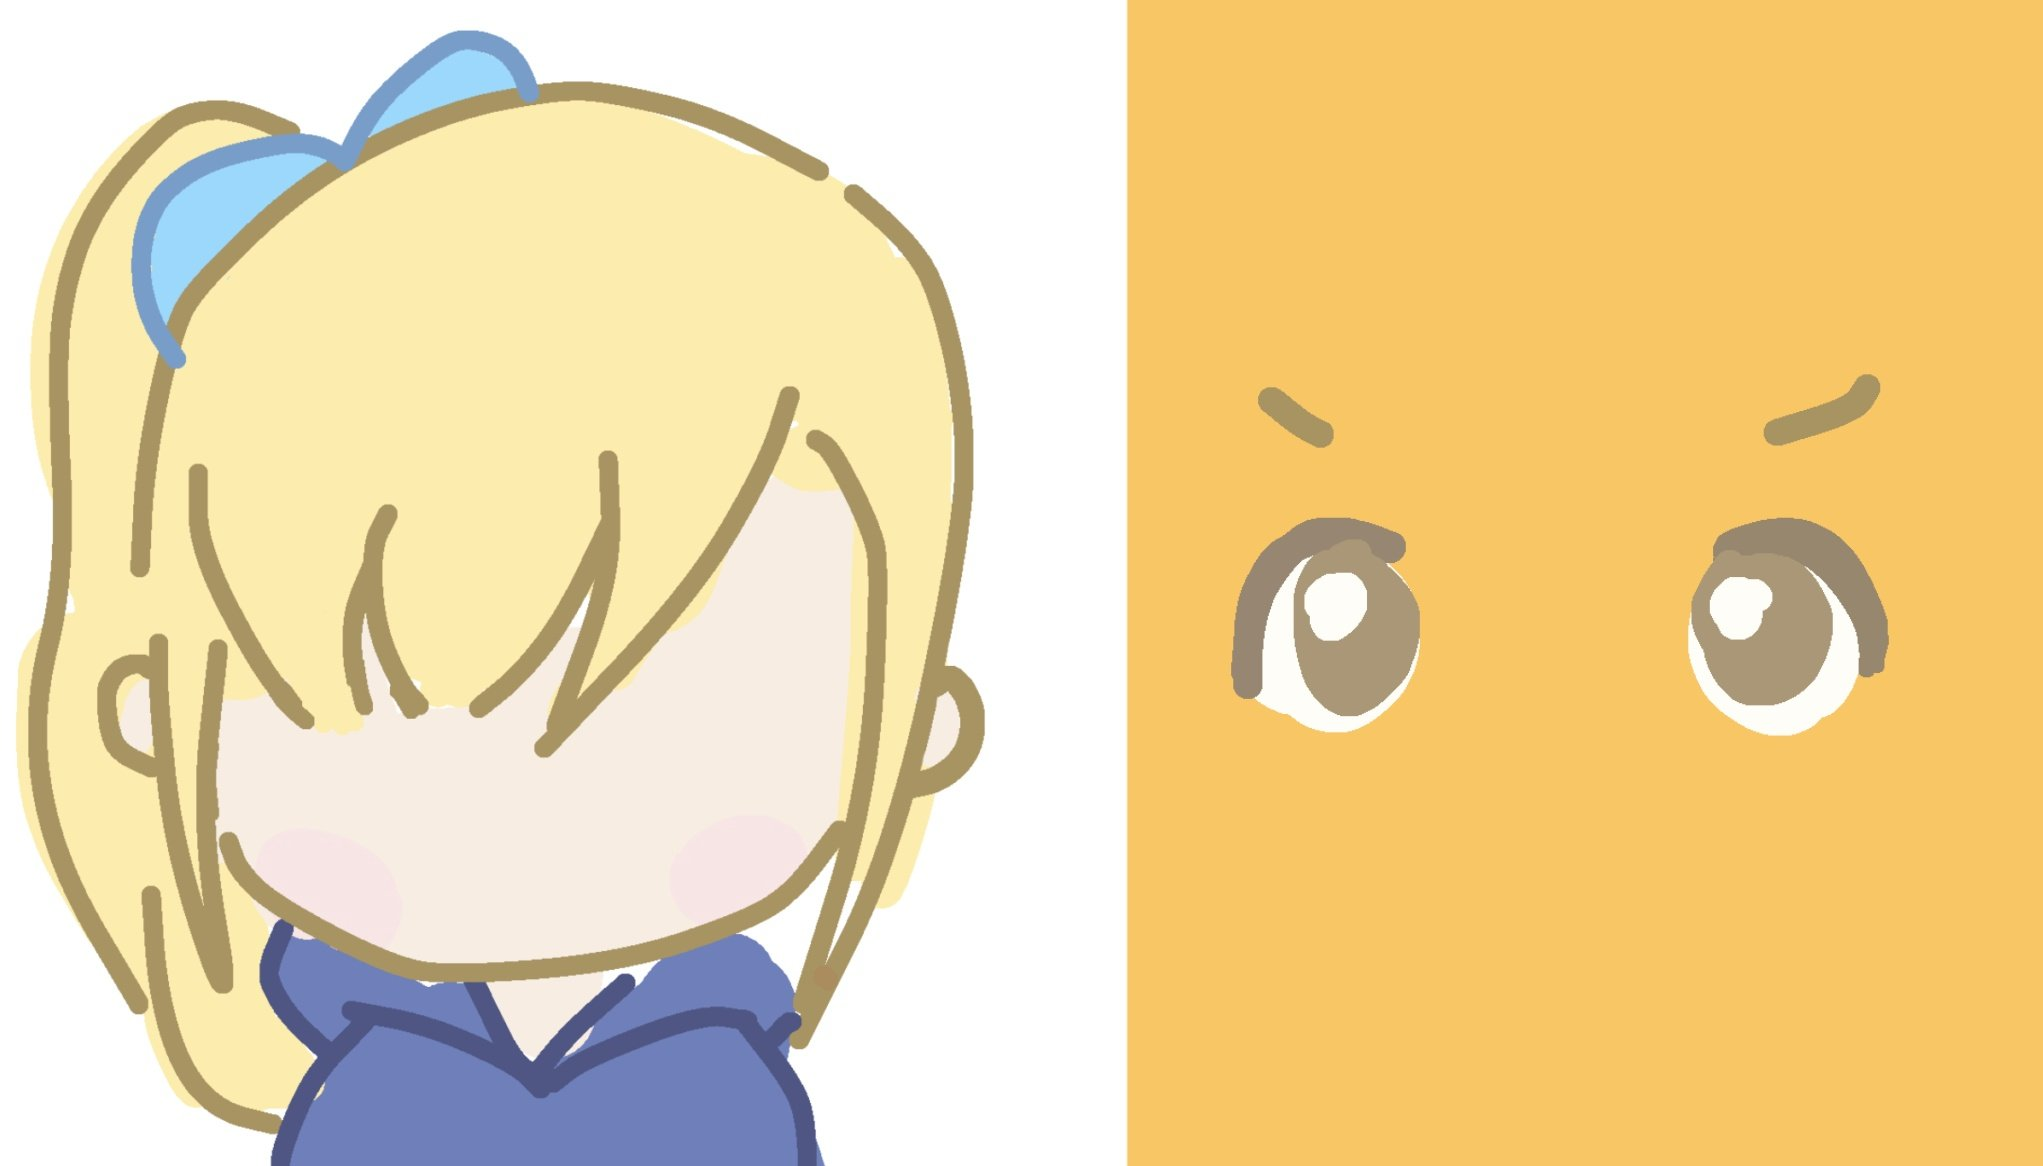
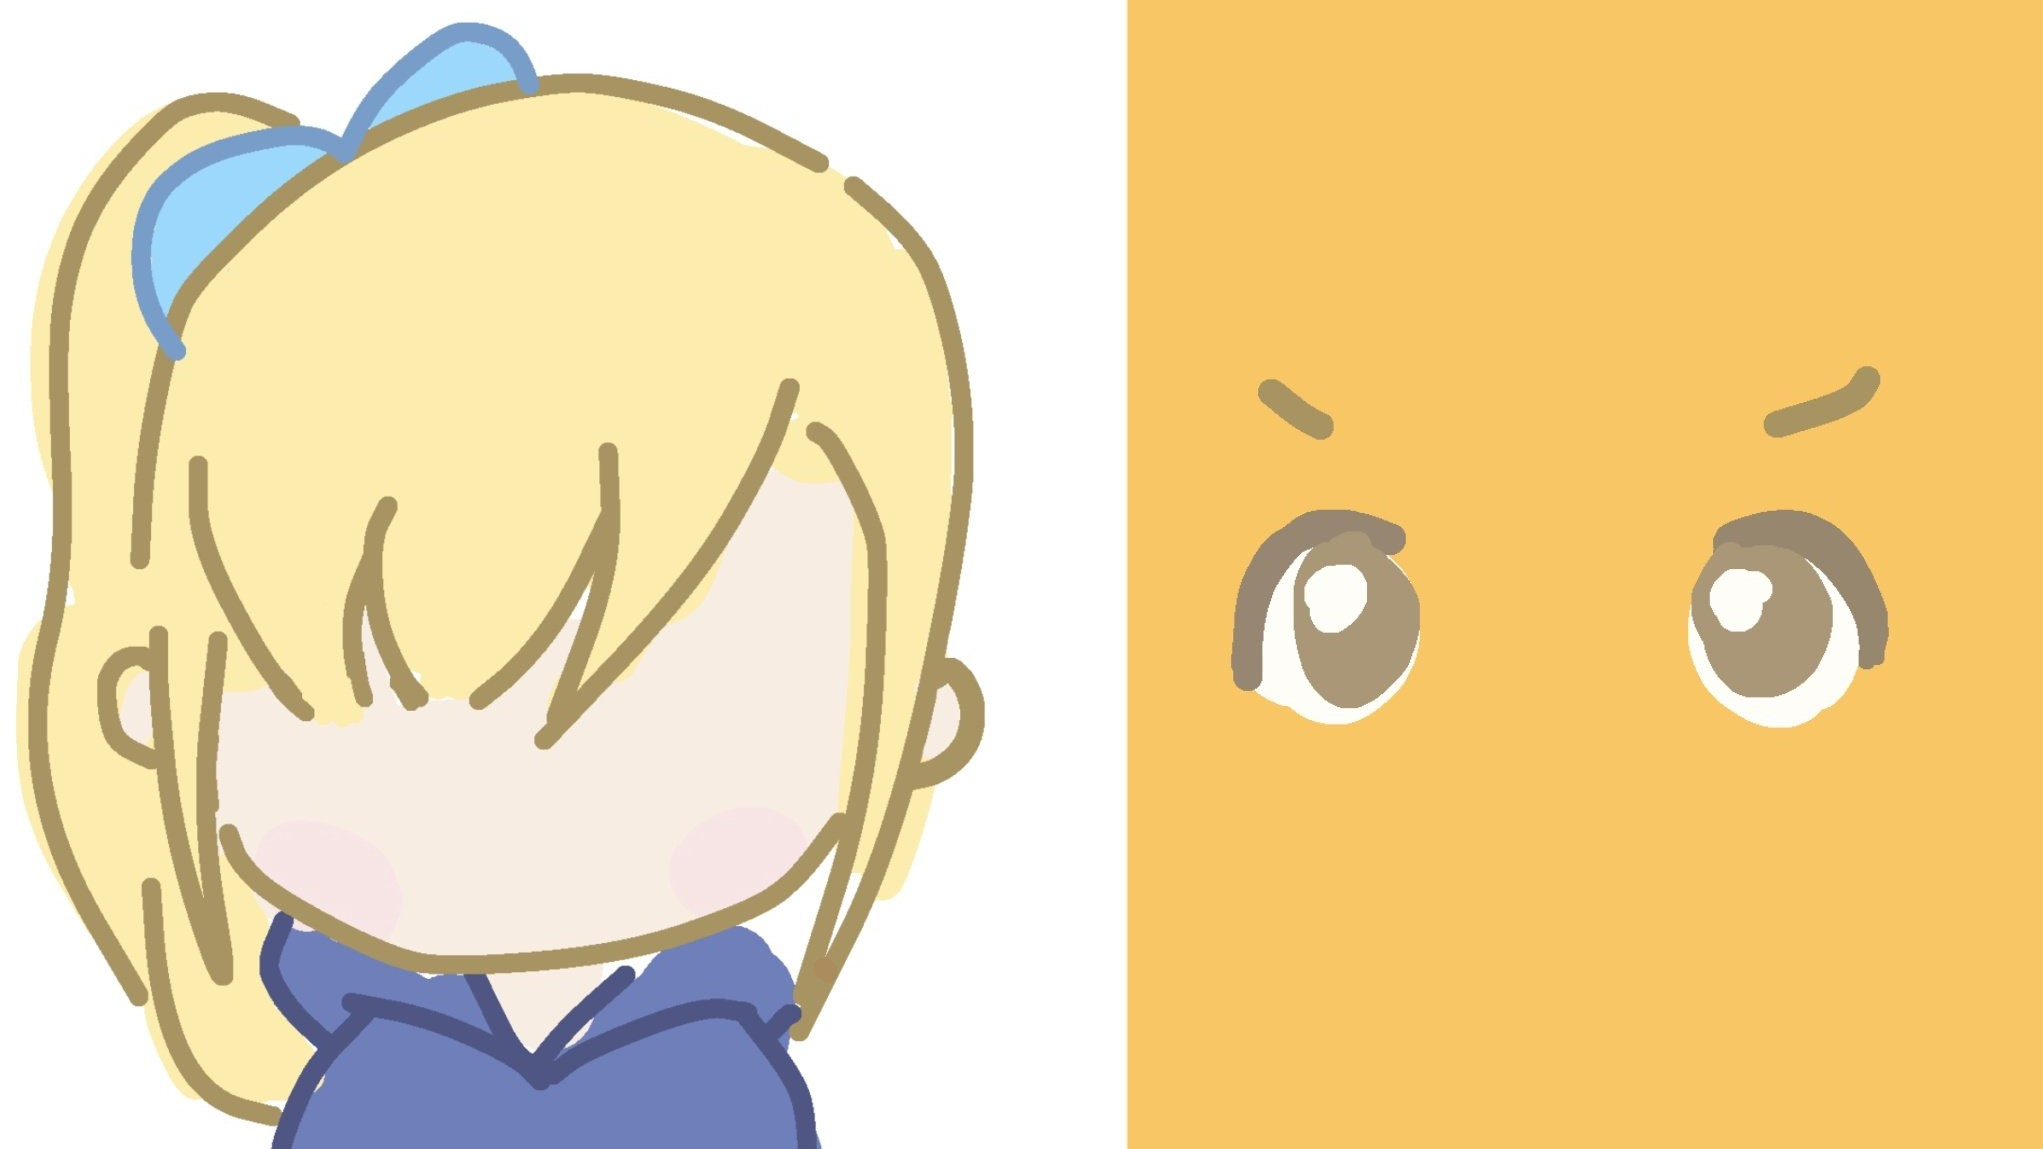
.

diff --git a/src/assets/css/silentbox.css b/src/assets/css/silentbox.css
@@ -1,1 +1,1 @@
-#silentbox-gallery{display:flex !important;flex-wrap:wrap-reverse;flex-direction:row-reverse;gap:min(1rem,4vmin)}#silentbox-gallery>a{flex-basis:min(200px,32vw);flex-grow:1;border-radius:min(1rem,4vmin);overflow:hidden;background-color:#fff;max-height:40vh;text-align:center;aspect-ratio:1/1;transition:box-shadow .2s}#silentbox-gallery>a:hover{box-shadow:4px 4px 12px #1116,-4px -4px 8px #fff5}#silentbox-gallery>a:nth-child(1){order:-1}#silentbox-gallery>a:nth-child(2){order:-2}#silentbox-gallery>a:nth-child(3){order:-3}#silentbox-gallery>a:nth-child(4){order:-4}#silentbox-gallery>a:nth-child(5){order:-5}#silentbox-gallery>a:nth-child(6){order:-6}#silentbox-gallery>a:nth-child(7){order:-7}#silentbox-gallery>a:nth-child(8){order:-8}#silentbox-gallery>a:nth-child(9){order:-9}#silentbox-gallery>a:nth-child(10){order:-10}#silentbox-gallery>a:nth-child(11){order:-11}#silentbox-gallery>a:nth-child(12){order:-12}#silentbox-gallery>a:nth-child(13){order:-13}#silentbox-gallery>a:nth-child(14){order:-14}#silentbox-gallery>a:nth-child(15){order:-15}#silentbox-gallery>a:nth-child(16){order:-16}#silentbox-gallery>a:nth-child(17){order:-17}#silentbox-gallery>a:nth-child(18){order:-18}#silentbox-gallery>a:nth-child(19){order:-19}#silentbox-gallery>a:nth-child(20){order:-20}#silentbox-gallery>a>img{height:100%}#silentbox-overlay{height:calc(var(--vh, 100vh)*.92) !important;width:min(80vw,var(--vh, 100vh)) !important}#silentbox-overlay__background,#silentbox-overlay__content{width:100vw !important;height:var(--vh, 100vh) !important;top:calc(-1*var(--vh, 100vh)*.04) !important;left:min(-10vw,(100vh - 100vw)/2) !important}#silentbox-overlay__close-button{width:2.5rem !important;height:2.5rem !important;right:min(-5vw,(100vh - 90vw)/2) !important;display:flex !important;justify-content:center;align-items:center}#silentbox-overlay__close-button>.icon{position:static !important;margin:0 !important;width:80% !important;height:80% !important}#silentbox-overlay__arrow-buttons>.arrow-previous{left:min(-5vw,(100vh - 90vw)/2) !important}#silentbox-overlay__arrow-buttons>.arrow-next{right:min(-5vw,(100vh - 90vw)/2) !important}
+#silentbox-gallery{display:flex !important;flex-wrap:wrap-reverse;flex-direction:row-reverse;gap:min(1rem,4vmin)}#silentbox-gallery>a{flex-basis:min(200px,32vw);flex-grow:1;border-radius:min(1rem,4vmin);overflow:hidden;background-color:#fff;max-height:40vh;text-align:center !important;aspect-ratio:1/1;transition:box-shadow .2s}#silentbox-gallery>a:hover{box-shadow:4px 4px 12px #1116,-4px -4px 8px #fff5}#silentbox-gallery>a:nth-child(1){order:-1}#silentbox-gallery>a:nth-child(2){order:-2}#silentbox-gallery>a:nth-child(3){order:-3}#silentbox-gallery>a:nth-child(4){order:-4}#silentbox-gallery>a:nth-child(5){order:-5}#silentbox-gallery>a:nth-child(6){order:-6}#silentbox-gallery>a:nth-child(7){order:-7}#silentbox-gallery>a:nth-child(8){order:-8}#silentbox-gallery>a:nth-child(9){order:-9}#silentbox-gallery>a:nth-child(10){order:-10}#silentbox-gallery>a:nth-child(11){order:-11}#silentbox-gallery>a:nth-child(12){order:-12}#silentbox-gallery>a:nth-child(13){order:-13}#silentbox-gallery>a:nth-child(14){order:-14}#silentbox-gallery>a:nth-child(15){order:-15}#silentbox-gallery>a:nth-child(16){order:-16}#silentbox-gallery>a:nth-child(17){order:-17}#silentbox-gallery>a:nth-child(18){order:-18}#silentbox-gallery>a:nth-child(19){order:-19}#silentbox-gallery>a:nth-child(20){order:-20}#silentbox-gallery>a:nth-child(21){order:-21}#silentbox-gallery>a>img{height:100%}#silentbox-overlay{height:calc(var(--vh, 100vh)*.92) !important;width:min(80vw,var(--vh, 100vh)) !important}#silentbox-overlay__background,#silentbox-overlay__content{width:100vw !important;height:var(--vh, 100vh) !important;top:calc(-1*var(--vh, 100vh)*.04) !important;left:min(-10vw,(100vh - 100vw)/2) !important}#silentbox-overlay__close-button{width:2.5rem !important;height:2.5rem !important;right:min(-5vw,(100vh - 90vw)/2) !important;display:flex !important;justify-content:center;align-items:center}#silentbox-overlay__close-button>.icon{position:static !important;margin:0 !important;width:80% !important;height:80% !important}#silentbox-overlay__arrow-buttons>.arrow-previous{left:min(-5vw,(100vh - 90vw)/2) !important}#silentbox-overlay__arrow-buttons>.arrow-next{right:min(-5vw,(100vh - 90vw)/2) !important}#silentbox-overlay iframe{aspect-ratio:16/9;height:auto}

diff --git a/src/assets/css/silentbox.scss b/src/assets/css/silentbox.scss
@@ -10,13 +10,13 @@
     overflow: hidden;
     background-color: #fff;
     max-height: 40vh;
-    text-align: center;
+    text-align: center !important;
     aspect-ratio: 1/1;
     transition: box-shadow .2s;
     &:hover {
       box-shadow: 4px 4px 12px #1116, -4px -4px 8px #fff5;
     } 
-    @for $i from 1 through 20 {
+    @for $i from 1 through 21 {
       &:nth-child(#{$i}) {
         order: -1 * $i;
       }
@@ -57,5 +57,9 @@
     > .arrow-next {
       right: min(-5vw, (100vh - 90vw) / 2) !important;
     }
+  }
+  iframe {
+    aspect-ratio: 16 / 9;
+    height: auto;
   }
 }

diff --git a/src/components/gallery/powerpoint.vue b/src/components/gallery/powerpoint.vue
@@ -58,15 +58,14 @@ export default {
     color: #fff;
     justify-content: space-around;
     align-items: center;
-    font-size: min(1.2rem, 3.6vmin);
     text-decoration: none;
     transition: background-color .2s;
     > svg {
-      font-size: 2.4em;
+      font-size: min(2.6rem, 7.8vmin);
     }
     > p {
       width: 60%;
-      font-size: 1.6em;
+      font-size: min(2rem, 6vmin);
       margin: 0;
     }
     &:hover {

diff --git a/src/components/gallery/illust.vue b/src/components/gallery/illust.vue
@@ -93,6 +93,10 @@ export default {
         {
           src: '/avatar/avatar18.jpg',
           description: 'illustration by 山形',
+        },
+        {
+          src: '/avatar/avatar19.png',
+          description: 'illustration by 水瀬莉雨',
         }
       ]
     }
